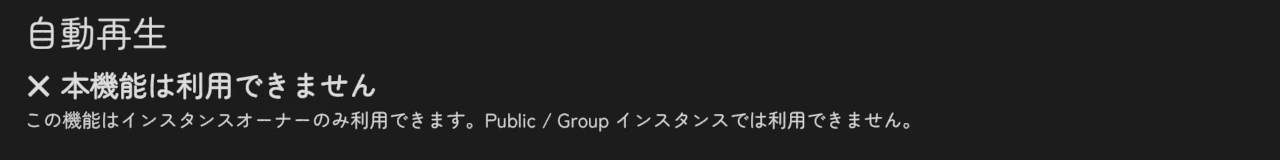
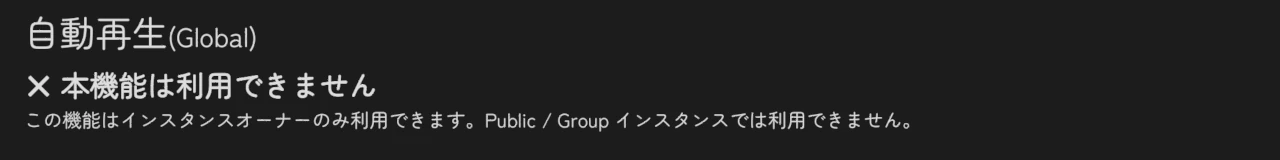
docs(guide): drop the autoplay caveat and show the card with (Global)
With the card titled 自動再生(Global), the guide no longer needs to say
that autoplay reaches everyone although it carries no (Global). The
three autoplay pictures and the bottom of the playback tab are taken
again with the new title.

Closes #216

Claude-Session: https://claude.ai/code/session_014UgSPcxLDoFJhLM3Stmszr

Changed region(s): [[0.0312, 0.125, 0.2188, 0.3125]]

diff --git a/CLAUDE.md b/CLAUDE.md
@@ -95,7 +95,7 @@ A module's `YamaPlayerModuleDefinition` may sit deeper than directly under the p
 
 KawaPlayer-specific modules (the reason this fork exists):
 - **PlaylistLoader** — loads playlists from `playlist.vrc-hub.com` at runtime using the Pre-baked URL Pool pattern (see Key Constraints below). Design docs: `docs/design/url-pool-*.md`. VRChat plays VHub's tracks in Public and Group Public instances only if `playlist.vrc-hub.com` is in the world's Video Player Allowed Domains, which the creator sets on VRChat.com (Edit World Info), not in Unity, and the listener has Allow Untrusted URLs on: the domain alone is not enough; other instances need only each listener's Allow Untrusted URLs. Loading a playlist in the world is a string download, which always needs each player's Allow Untrusted URLs.
-- **DefaultUrl** — lets the Instance Owner set the world's auto-play video/playlist URL from inside VRChat, synced to all players and persisted across visits. Users never see "DefaultUrl" or "default URL" (issue #173): the in-world settings card is titled 自動再生 (Autoplay), without "(Global)", and Module Manager lists it as 自動再生(Owner), beside AutoPlay's 自動再生(World). Only these display names changed; the class, folder, object and translation-key names (`module.defaultUrl.*`, `module.autoPlay.*`) and the saved storage stay as they are, so worlds and saved URLs carry over
+- **DefaultUrl** — lets the Instance Owner set the world's auto-play video/playlist URL from inside VRChat, synced to all players and persisted across visits. Users never see "DefaultUrl" or "default URL" (issue #173): the in-world settings card is titled 自動再生(Global) (Autoplay (Global)), with the "(Global)" every setting that reaches the whole instance carries, drawn at the panel's own size (`_globalSuffixSize`, 44 on the screen, 28 on the tablet; #173 had dropped it and #216 put it back), and Module Manager lists it as 自動再生(Owner), beside AutoPlay's 自動再生(World). Only these display names changed; the class, folder, object and translation-key names (`module.defaultUrl.*`, `module.autoPlay.*`) and the saved storage stay as they are, so worlds and saved URLs carry over
 
 Inherited from upstream YamaPlayer:
 - AudioLinkAdaptor, AutoPlay, LTCGIAdaptor, LightVolumeAdaptor

diff --git a/docs/guide/playing.md b/docs/guide/playing.md
@@ -146,7 +146,7 @@ VHub から読み込んだプレイリストの曲の一覧には、右上に **
 
 ![設定の画面。再生のタブで、動画プレイヤー・再生速度・区間リピート再生・ローカル再生遅延が並ぶ。① 左のタブと ② メイン画面に戻る に印がある](images/screen/settings.webp)
 
-名前に **(Global)** が付いた設定は、インスタンスの全員に反映されます。付いていない設定は、自分にだけ反映されます（自動再生は例外で、全員に反映されます）。
+名前に **(Global)** が付いた設定は、インスタンスの全員に反映されます。付いていない設定は、自分にだけ反映されます。
 
 ### 再生
 
@@ -193,7 +193,7 @@ VHub から読み込んだプレイリストの曲の一覧には、右上に **
 
    ![URL を決めたあとの自動再生の欄。① 設定値に URL が出ている](images/screen/autoplay-owner-set.webp)
 
-- **全員に反映:** 名前に (Global) は付いていませんが、決めた URL はインスタンスの全員に反映されます。
+- **全員に反映:** 名前の (Global) のとおり、決めた URL はインスタンスの全員に反映されます。
 - **すぐ流れるとき:** 止まっているときに決めると、すぐに全員で再生が始まります。何かを再生しているときは止めず、そのインスタンスでは、あとから流れることもありません。
 - **VHub のプレイリスト:** プレイリストの一覧に読み込みます。読み込める枠（標準で 5 件）がいっぱいのときは、一番古いものを消してよいか聞かれます。
 
